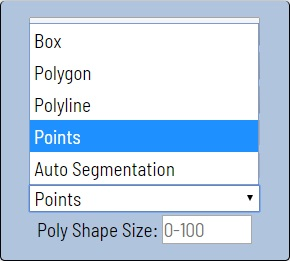
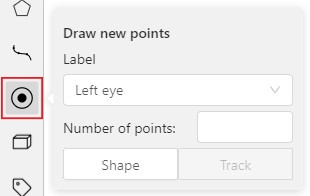
update user_guide.md, images and gifs

diff --git a/cvat/apps/documentation/user_guide.md b/cvat/apps/documentation/user_guide.md
@@ -27,10 +27,10 @@
   - [Annotation with rectangle by 4 points](#annotation-with-rectangle-by-4-points)
   - [Annotation with polygons](#annotation-with-polygons)
   - [Annotation with polylines](#annotation-with-polylines)
-  - [Annotation with cuboids](#annotation-with-cuboids)
   - [Annotation with points](#annotation-with-points)
     - [Points in annotation mode](#points-in-annotation-mode)
     - [Linear interpolation with one point](#linear-interpolation-with-one-point)
+  - [Annotation with cuboids](#annotation-with-cuboids)
   - [Annotation with Auto Segmentation](#annotation-with-auto-segmentation)
   - [Automatic annotation](#automatic-annotation)
   - [Shape grouping](#shape-grouping)
@@ -1107,6 +1107,52 @@ automatically. You can adjust the polyline after it has been drawn.
 
 ![](static/documentation/images/image039.jpg)
 
+## Annotation with points
+
+### Points in shape mode
+
+It is used for face, landmarks annotation etc.
+
+Before you start you need to select the ``Points``. If necessary you can set a fixed number of points
+in the ``Number of points`` field, then drawing will be stopped automatically.
+
+![](static/documentation/images/image042.jpg)
+
+Click ``Shape`` to entering the drawing mode. Now you can start annotation of the necessary area.
+Points are automatically grouped — all points will be considered linked between each start and finish.
+Press ``N`` again to finish marking the area. You can delete a point by double-clicking with pressed ``Ctrl``
+or right-clicking on a point and selecting ``Delete point``. Double-clicking with pressed ``Shift`` will open the points
+shape editor. There you can add new points into an existing shape. You can zoom in/out (when scrolling the mouse wheel)
+and move (when clicking the mouse wheel and moving the mouse) while drawing. You can drag an object after
+it has been drawn and change the position of individual points after finishing an object.
+
+![](static/documentation/images/image063_affectnet.jpg)
+
+### Linear interpolation with one point
+
+You can use linear interpolation for points to annotate a moving object:
+
+1.  Before you start, select the ``Points``.
+1.  Linear interpolation works only with one point, so you need to set ``Number of points`` to 1.
+1.  After that select the ``Track``.
+
+    ![](static/documentation/images/image122.jpg)
+
+1.  Click ``Track`` to enter the drawing mode left-click to create a point and after that shape will be automatically completed.
+
+    ![](static/documentation/images/image163_detrac.jpg)
+
+1.  Move forward a few frames and move the point to the desired position,
+    this way you will create a keyframe and intermediate frames will be drawn automatically.
+    You can work with this object as with an interpolated track: you can hide it using the ``Outside``,
+    move around keyframes, etc.
+
+    ![](static/documentation/images/image165_detrac.jpg)
+
+1.  This way you'll get linear interpolation using the `` Points``.
+
+    ![](static/documentation/images/gif013_detrac.gif)
+
 ## Annotation with cuboids
 
 It is used to annotate 3 dimensional objects such as cars, boxes, etc...
@@ -1162,56 +1208,6 @@ these faces are the left, right and dorsal faces, relative to the pink face.
 Simply drag the faces to move them independently from the rest of the cuboid.
 
 ![](static/documentation/images/CuboidEditing2.gif)
-
-## Annotation with points
-
-### Points in annotation mode
-
-It is used for face landmarks annotation etc.
-
-Before starting, you have to be sure that ``Points`` is selected.
-
-![](static/documentation/images/image042.jpg)
-
-Press ``N`` for entering drawing mode. Now you can start annotating the necessary area.
-Press ``N`` again for finishing marking an area. You can delete points
-double-clicking them. Double-click with pressed ``Shift`` will open a points
-shape editor. There you can create new points into existing shape. Also, you
-can set fixed number of points in the "poly shape size" field, then drawing
-will be stopped automatically. Points are automatically grouped — all points
-will be considered linked between individual start and finish. You can zoom
-in/out (when scrolling the mouse wheel) and move (when clicking the mouse
-wheel and moving the mouse) while drawing. You can drag object after it has
-been drawn and fix a position of individual points after finishing the object.
-You can add/delete points after finishing.
-
-![](static/documentation/images/image063.jpg)
-
-### Linear interpolation with one point
-
-You can use linear interpolation for points to annotate a moving object:
-
-1.  Before starting, you have to be sure that ``Points`` is selected.
-1.  Linear interpolation works only with one point, so you need to set ``Poly Shapes Size``: 1.
-1.  After that select the interpolation mode.
-
-    ![](static/documentation/images/image122.jpg)
-
-1.  Press ``N`` or click ``Create Shape`` for entering drawing mode.
-    Click LMB to create a point and shape will be automatically completed.
-
-    ![](static/documentation/images/gif011_DETRAC.gif)
-
-1.  Move forward a few frames and move the point to the desired position,
-    this way you will create a keyframe and intermediate frames will be drawn automatically.
-    You can work with this object as with an interpolated track: hide with help of ``Outside``,
-    move around keyframes, etc.
-
-    ![](static/documentation/images/gif012_DETRAC.gif)
-
-1.  This way you'll get linear interpolation using `` Points``.
-
-    ![](static/documentation/images/gif013_DETRAC.gif)
 
 ## Annotation with Auto Segmentation
 
